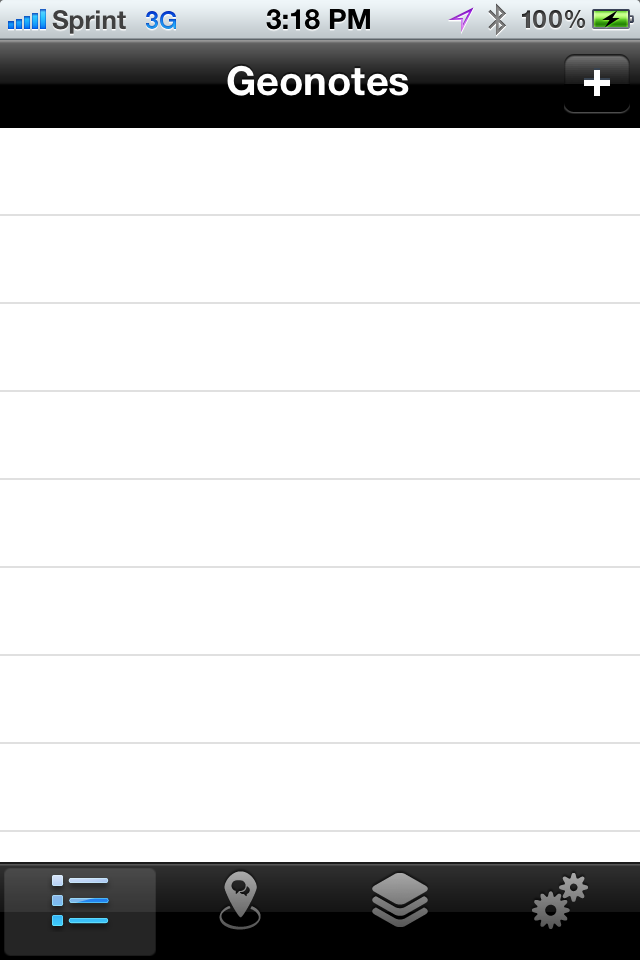
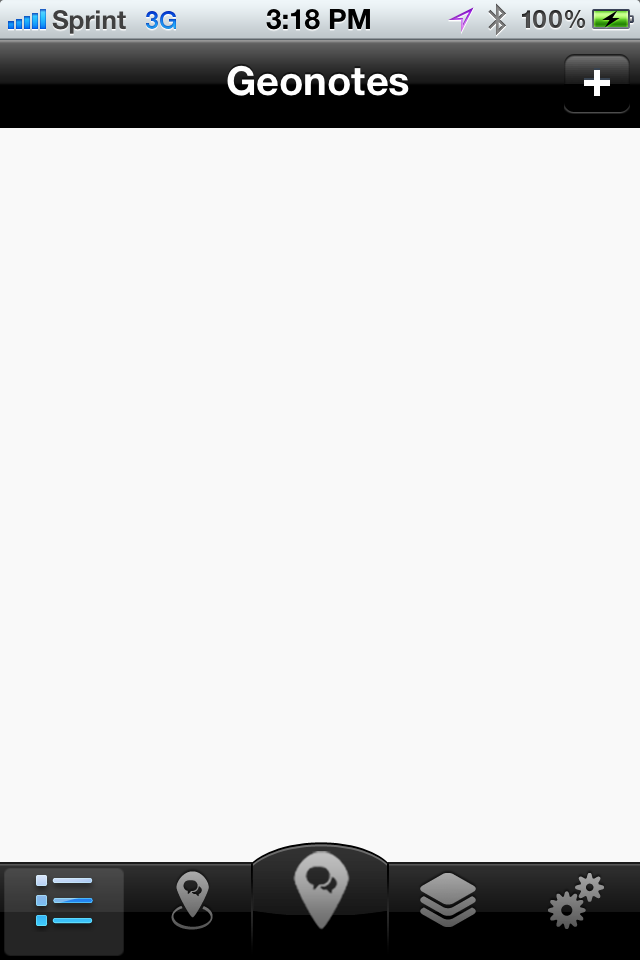
Implements the raised tab bar item with placeholder graphics, and a new placeholder controller for creating a new Geonote.

Changed region(s): [[0.4062, 0.875, 0.75, 0.9688], [0.0312, 0.9062, 0.4062, 1.0], [0.8125, 0.9062, 0.9375, 0.9688]]

diff --git a/Geonotes/Geonotes/LQTabBarController.m b/Geonotes/Geonotes/LQTabBarController.m
@@ -15,38 +15,64 @@
 @implementation LQTabBarController
 
 // Create a view controller and setup it's tab bar item with a title and image
--(UIViewController*) viewControllerWithTabTitle:(NSString*) title image:(UIImage*)image
+- (UIViewController *)viewControllerWithTabTitle:(NSString*) title image:(UIImage*)image
 {
-    UIViewController* viewController = [[UIViewController alloc] init];
+    UIViewController *viewController = [[UIViewController alloc] init];
     viewController.tabBarItem = [[UITabBarItem alloc] initWithTitle:title image:image tag:0];
     return viewController;
 }
 
 // Create a custom UIButton and add it to the center of our tab bar
--(void) addCenterButtonWithImage:(UIImage*)buttonImage highlightImage:(UIImage*)highlightImage
+- (void)addCenterButtonWithImage:(UIImage*)buttonImage highlightImage:(UIImage*)highlightImage
 {
-    UIButton* button = [UIButton buttonWithType:UIButtonTypeCustom];
-    button.autoresizingMask = UIViewAutoresizingFlexibleRightMargin | UIViewAutoresizingFlexibleLeftMargin | UIViewAutoresizingFlexibleBottomMargin | UIViewAutoresizingFlexibleTopMargin;
-    button.frame = CGRectMake(0.0, 0.0, buttonImage.size.width, buttonImage.size.height);
-    [button setBackgroundImage:buttonImage forState:UIControlStateNormal];
-    [button setBackgroundImage:highlightImage forState:UIControlStateHighlighted];
+//    centerButton = [UIButton buttonWithType:UIButtonTypeCustom];
+//    centerButton.autoresizingMask = UIViewAutoresizingFlexibleRightMargin | UIViewAutoresizingFlexibleLeftMargin | UIViewAutoresizingFlexibleBottomMargin | UIViewAutoresizingFlexibleTopMargin;
+//    centerButton.frame = CGRectMake(0.0, 0.0, buttonImage.size.width, buttonImage.size.height);
+//    [centerButton setBackgroundImage:buttonImage forState:UIControlStateNormal];
+//    [centerButton setBackgroundImage:highlightImage forState:UIControlStateHighlighted];
+
+    // Store as local variables
+    defaultImage = buttonImage;
+    highlightedImage = highlightImage;
     
+    centerButton = [[UIImageView alloc] initWithImage:buttonImage];
+    centerButton.autoresizingMask = UIViewAutoresizingFlexibleRightMargin | UIViewAutoresizingFlexibleLeftMargin | UIViewAutoresizingFlexibleBottomMargin | UIViewAutoresizingFlexibleTopMargin;
+    centerButton.frame = CGRectMake(0.0, 0.0, buttonImage.size.width, buttonImage.size.height);
+
+    // centerButton.isUserInteractionEnabled = NO;
+    // [centerButton setBackgroundImage:highlightImage forState:UIControlStateHighlighted];
+
     CGFloat heightDifference = buttonImage.size.height - self.tabBar.frame.size.height;
     if (heightDifference < 0)
-        button.center = self.tabBar.center;
+        centerButton.center = self.tabBar.center;
     else
     {
         CGPoint center = self.tabBar.center;
         center.y = center.y - heightDifference/2.0;
-        button.center = center;
+        centerButton.center = center;
     }
     
-    [self.view addSubview:button];
+    [self.view addSubview:centerButton];
 }
 
--(void)willAppearIn:(UINavigationController *)navigationController
+- (void)viewWillAppear:(BOOL)animated
 {
-    [self addCenterButtonWithImage:[UIImage imageNamed:@"geonote.png"] highlightImage:nil];
+    [super viewWillAppear:animated];
+    
+    self.delegate = self;
+    
+    [self addCenterButtonWithImage:[UIImage imageNamed:@"newGeonoteTabBarItem.png"] 
+                    highlightImage:[UIImage imageNamed:@"newGeonoteTabBarItemHighlighted.png"]];
+}
+
+- (void)tabBarController:(UITabBarController *)tabBarController didSelectViewController:(UIViewController *)viewController {
+    if(self.selectedIndex == 2) {
+        // Center button tapped
+        centerButton.image = highlightedImage;
+    } else {
+        // Some other button tapped
+        centerButton.image = defaultImage;
+    }
 }
 
 - (BOOL)shouldAutorotateToInterfaceOrientation:(UIInterfaceOrientation)interfaceOrientation

diff --git a/Geonotes/Geonotes/LQAppDelegate.m b/Geonotes/Geonotes/LQAppDelegate.m
@@ -52,7 +52,7 @@
 
     UINavigationController *activityNavController = [[UINavigationController alloc] initWithRootViewController:activityViewController];
     activityNavController.navigationBar.tintColor = [UIColor blackColor];
-    activityViewController.navigationItem.title = @"Geonotes";
+    // activityViewController.navigationItem.title = @"Geonotes";
     // activityViewController.navigationItem.rightBarButtonItem = [[UIBarButtonItem alloc] initWithBarButtonSystemItem:UIBarButtonSystemItemAdd target:self action:@selector(newGeonoteButtonWasTapped:)];
 
     UIViewController *geonotesViewController = [[LQGeonotesViewController alloc] init];
@@ -60,8 +60,9 @@
     geonotesNavController.navigationBar.tintColor = [UIColor blackColor];
     // geonotesViewController.navigationItem.rightBarButtonItem = [[UIBarButtonItem alloc] initWithBarButtonSystemItem:UIBarButtonSystemItemAdd target:self action:@selector(newGeonoteButtonWasTapped:)];
 
-    UIViewController *newGeonoteViewController = [[LQGeonotesViewController alloc] init];
+    UIViewController *newGeonoteViewController = [[LQNewGeonoteViewController alloc] init];
     UINavigationController *newGeonoteNavController = [[UINavigationController alloc] initWithRootViewController:newGeonoteViewController];
+    newGeonoteNavController.navigationBar.tintColor = [UIColor blackColor];
 
     UIViewController *layersViewController = [[LQLayersViewController alloc] init];
     UINavigationController *layersNavController = [[UINavigationController alloc] initWithRootViewController:layersViewController];
@@ -77,6 +78,7 @@
                                                 layersNavController, 
                                                 settingsViewController, 
                                                 nil];
+    // [(LQTabBarController *)self.tabBarController addCenterButtonTarget:self action:@selector(openNewGeonoteController:)];
     self.window.rootViewController = self.tabBarController;
     [self.window makeKeyAndVisible];
     
@@ -106,6 +108,11 @@
     [LQSession application:application didFinishLaunchingWithOptions:launchOptions];
 
     return YES;
+}
+
+- (void)openNewGeonoteController:(id)sender 
+{
+    NSLog(@"Center was tapped");
 }
 
 - (void)reInitializeSessionFromSettingsPanel

diff --git a/Geonotes/Geonotes/LQNewGeonoteViewController.m b/Geonotes/Geonotes/LQNewGeonoteViewController.m
@@ -1,0 +1,45 @@
+//
+//  LQNewGeonoteViewController.m
+//  Geonotes
+//
+//  Created by Aaron Parecki on 7/18/12.
+//  Copyright (c) 2012 Geoloqi, Inc. All rights reserved.
+//
+
+#import "LQNewGeonoteViewController.h"
+
+@interface LQNewGeonoteViewController ()
+
+@end
+
+@implementation LQNewGeonoteViewController
+
+- (id)initWithNibName:(NSString *)nibNameOrNil bundle:(NSBundle *)nibBundleOrNil
+{
+    self = [super initWithNibName:nibNameOrNil bundle:nibBundleOrNil];
+    if (self) {
+        // Custom initialization
+        self.title = NSLocalizedString(@"New Geonote", @"New Geonote");
+    }
+    return self;
+}
+
+- (void)viewDidLoad
+{
+    [super viewDidLoad];
+    // Do any additional setup after loading the view from its nib.
+}
+
+- (void)viewDidUnload
+{
+    [super viewDidUnload];
+    // Release any retained subviews of the main view.
+    // e.g. self.myOutlet = nil;
+}
+
+- (BOOL)shouldAutorotateToInterfaceOrientation:(UIInterfaceOrientation)interfaceOrientation
+{
+    return (interfaceOrientation == UIInterfaceOrientationPortrait);
+}
+
+@end

diff --git a/Geonotes/Geonotes/LQTabBarController.h b/Geonotes/Geonotes/LQTabBarController.h
@@ -8,12 +8,16 @@
 
 #import <UIKit/UIKit.h>
 
-@interface LQTabBarController : UITabBarController
+@interface LQTabBarController : UITabBarController <UITabBarControllerDelegate> {
+    UIImageView *centerButton;
+    UIImage *defaultImage;
+    UIImage *highlightedImage;
+}
 
 // Create a view controller and setup it's tab bar item with a title and image
--(UIViewController*) viewControllerWithTabTitle:(NSString*)title image:(UIImage*)image;
+- (UIViewController *)viewControllerWithTabTitle:(NSString*)title image:(UIImage*)image;
 
 // Create a custom UIButton and add it to the center of our tab bar
--(void) addCenterButtonWithImage:(UIImage*)buttonImage highlightImage:(UIImage*)highlightImage;
+- (void)addCenterButtonWithImage:(UIImage*)buttonImage highlightImage:(UIImage*)highlightImage;
 
 @end

diff --git a/Geonotes/Geonotes/LQConfig.h b/Geonotes/Geonotes/LQConfig.h
@@ -1,2 +1,8 @@
-static NSString *const LQ_APIKey = @"";
-static NSString *const LQ_APISecret = @"";
+
+// Create an application on the Geoloqi developers site and
+// enter your API Key and Secret here.
+// https://developers.geoloqi.com/
+
+static NSString *const LQ_APIKey = @"8d1b19b80dfcc797855037f2e47369f1";
+static NSString *const LQ_APISecret = @"54ba7a143f875b9a3f44d34bb0d41aeb";
+

diff --git a/Geonotes/Geonotes/LQNewGeonoteViewController.h b/Geonotes/Geonotes/LQNewGeonoteViewController.h
@@ -1,0 +1,13 @@
+//
+//  LQNewGeonoteViewController.h
+//  Geonotes
+//
+//  Created by Aaron Parecki on 7/18/12.
+//  Copyright (c) 2012 Geoloqi, Inc. All rights reserved.
+//
+
+#import <UIKit/UIKit.h>
+
+@interface LQNewGeonoteViewController : UIViewController
+
+@end

diff --git a/Geonotes/Geonotes/LQAppDelegate.h b/Geonotes/Geonotes/LQAppDelegate.h
@@ -10,6 +10,7 @@
 
 #import "LQActivityViewController.h"
 #import "LQGeonotesViewController.h"
+#import "LQNewGeonoteViewController.h"
 #import "LQLayersViewController.h"
 #import "LQSettingsViewController.h"
 
